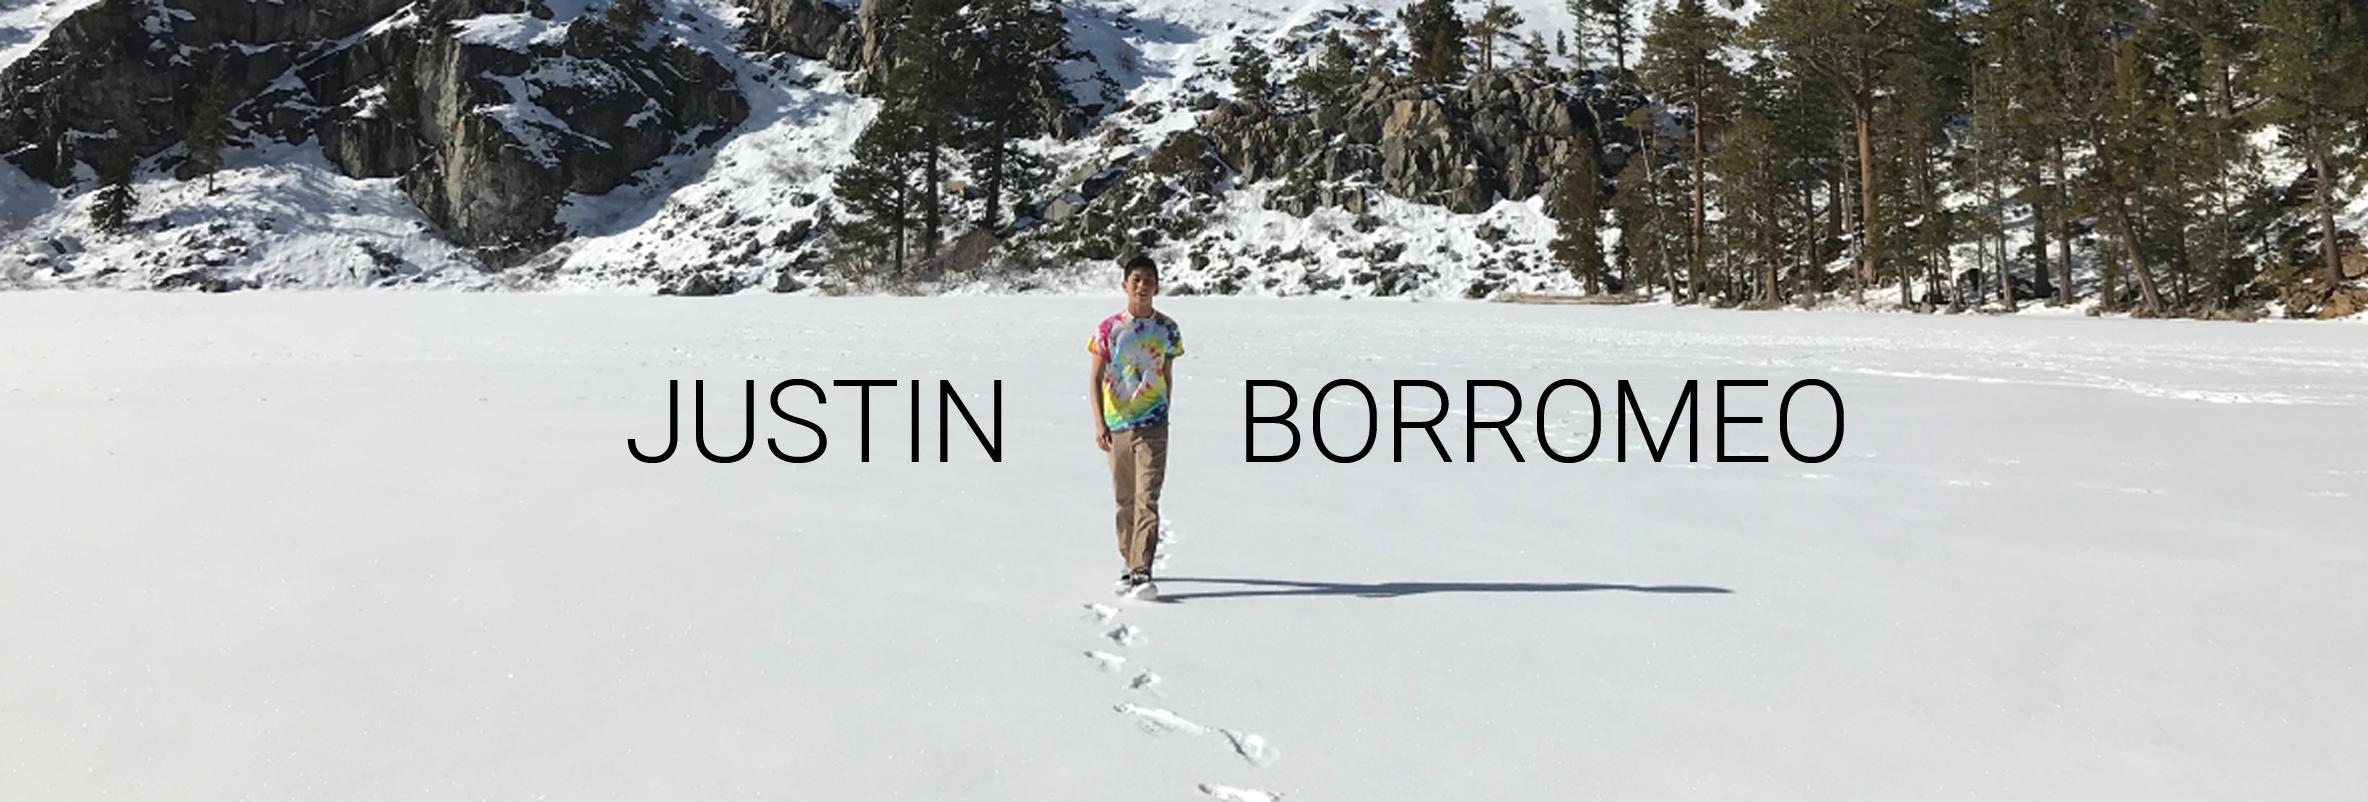
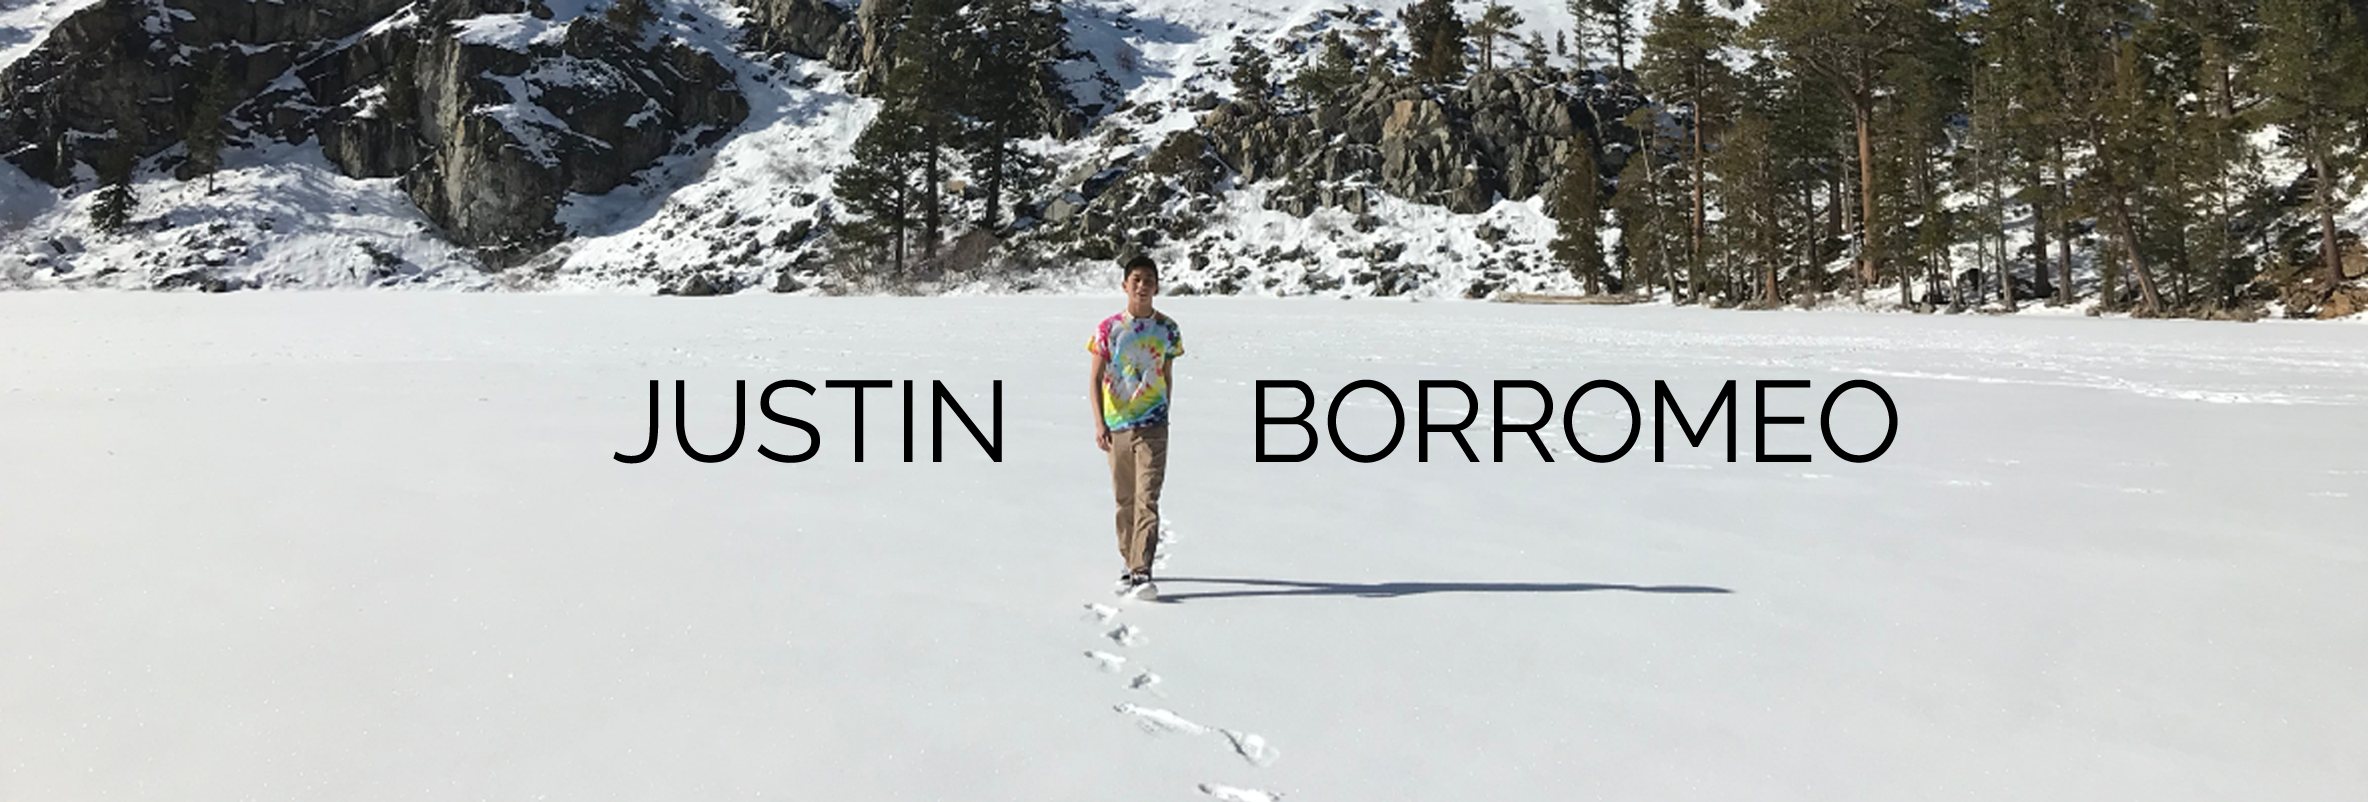
Font changes

Changed region(s): [[0.5, 0.4676, 0.8125, 0.5923], [0.25, 0.4676, 0.4375, 0.5923]]

diff --git a/index.html b/index.html
@@ -1,6 +1,6 @@
 <html>
     <head>
-        <link href="https://fonts.googleapis.com/css?family=Roboto:100,200,300,400&display=swap" rel="stylesheet">  
+        <link href="https://fonts.googleapis.com/css?family=Raleway:200,300,400|Roboto+Slab:300,400&display=swap" rel="stylesheet">
         <link rel="stylesheet" href="index.css">
         <link rel="icon" href="img/favicon.png">
         <title>Justin Borromeo</title>
@@ -14,7 +14,7 @@
 
         <section id = "about">
             <h3 class = "section-title white-text blue-background">About</h3>
-            <div class = "text-container">
+            <div class = "text-container body-text">
                     <p>
                         Hi, my name is Justin!  I currently study mechatronics engineering (a combination of
                         software, mechanical, and electrical engineering) at the University of Waterloo. I'm 
@@ -37,15 +37,27 @@
         <section id = "experience">
             <h3 class = "section-title white-text blue-background">Experience</h3>
             <div class = "card">
-                <span class = "experience-company">
-
-                </span>
-                <span class = "experience-job-title">
-
-                </span>
-                <span class = "experience-location">
-                    
-                </span>
+                <div class = "card-header">
+                    <span class = "experience-company">
+                       Imply,
+                    </span>
+                    <span class = "experience-job-title">
+                        Database and Distributed Systems Engineering Intern,
+                    </span>
+                    <span class = "experience-job-dates">
+                        January 2019 - April 2019
+                    </span>
+                </div>
+                <div class = "card-body body-text">
+                    <p>
+                        Temp  
+                    </p>
+                </div>
+                <div class = "card-footer">
+                    <span class = "experience-location">
+                        Burlingame, California
+                    </span>
+                </div>
             </div>
             <div class = "card">
 
@@ -57,14 +69,12 @@
 
         <section id = "skills">
             <h3 class = "section-title white-text blue-background">Skills</h3>
-            <p>
-                <div class = "card">
+            <div class = "card">
 
-                </div>
-                <div class = "card">
-        
-                </div>
-            </p>
+            </div>
+            <div class = "card">
+    
+            </div>
         </section>
         
         <section id = "education">

diff --git a/index.css b/index.css
@@ -1,5 +1,5 @@
 html {
-    font-family: "Roboto", sans-serif;
+    font-family: "Raleway", sans-serif;
     font-size: 16px;
 }
 
@@ -21,8 +21,26 @@ h3 {
 }
 
 p {
-    font-weight: 300;
-    line-height: 2.5rem;
+    line-height: 2.3rem;
+    margin-top: 40px;
+    margin-bottom: 40px;
+}
+
+.body-text {
+    font-family: 'Roboto Slab', serif;
+    font-weight: 400;
+}
+
+#header-container { 
+    width: 100%;
+    text-align: center; /* ensures the image is always in the h-middle */ 
+    overflow: hidden; /* hide the cropped portion */ 
+} 
+
+#banner {
+    position: relative; /* allows repositioning */
+    left: 100%; /* move the whole width of the image to the right */ 
+    margin-left: -200%; /* magic! */
 }
 
 .white-text {
@@ -40,16 +58,46 @@ p {
     padding-right: 4rem;
 }
 
-#header-container { 
-    width: 100%;
-    text-align: center; /* ensures the image is always in the h-middle */ 
-    overflow: hidden; /* hide the cropped portion */ 
-} 
+.card {
+    margin-top: 20px;
+    margin-bottom: 20px;
+    width: 75%;
+    background-color: white;
+}
 
-#banner {
-    position: relative; /* allows repositioning */
-    left: 100%; /* move the whole width of the image to the right */ 
-    margin-left: -200%; /* magic! */
+.card-header {
+    font-weight : 400;
+    padding-top: 0.5rem;
+    padding-bottom: 0.5rem;
+    margin-left: 20px;
+    margin-right: 20px;
+    border-bottom: 1px solid #ddd;
+}
+
+.card-body {
+    padding-left: 20px;
+    padding-right: 20px;
+}
+
+.card-footer {
+    font-weight : 300;
+    background-color: #379683;
+    padding-top: 0.5rem;
+    padding-bottom: 0.5rem;
+    padding-left: 20px;
+    padding-right: 20px;
+    color:white;
+}
+
+.experience-company {
+    text-transform: uppercase;
+    font-size: 1rem;
+    line-height: 1.2rem;
+}
+
+.experience-job-title {
+    font-size: 1rem;
+    line-height: 1.2rem;
 }
 
 @media (min-width: 0px) {
